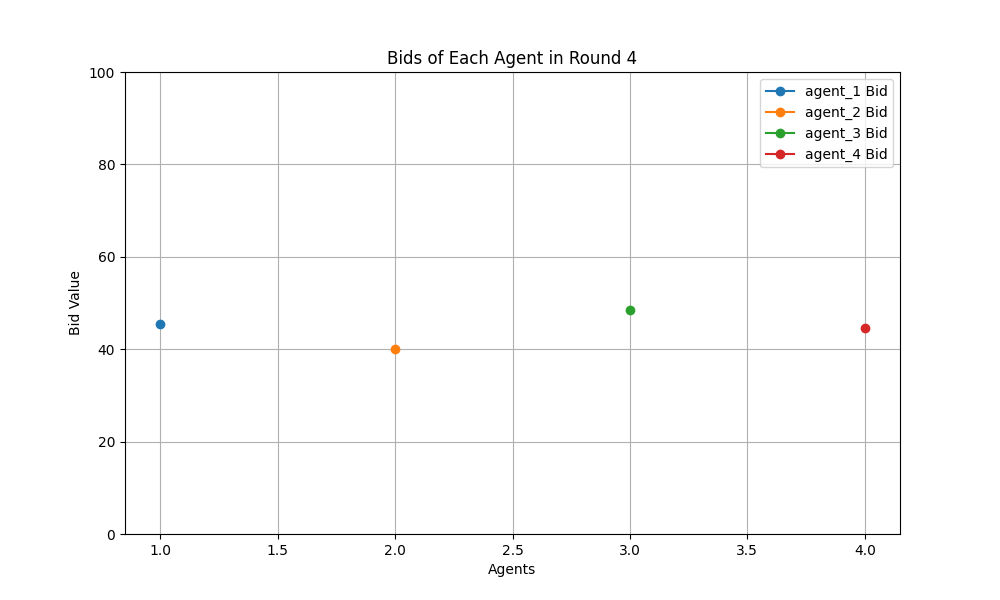
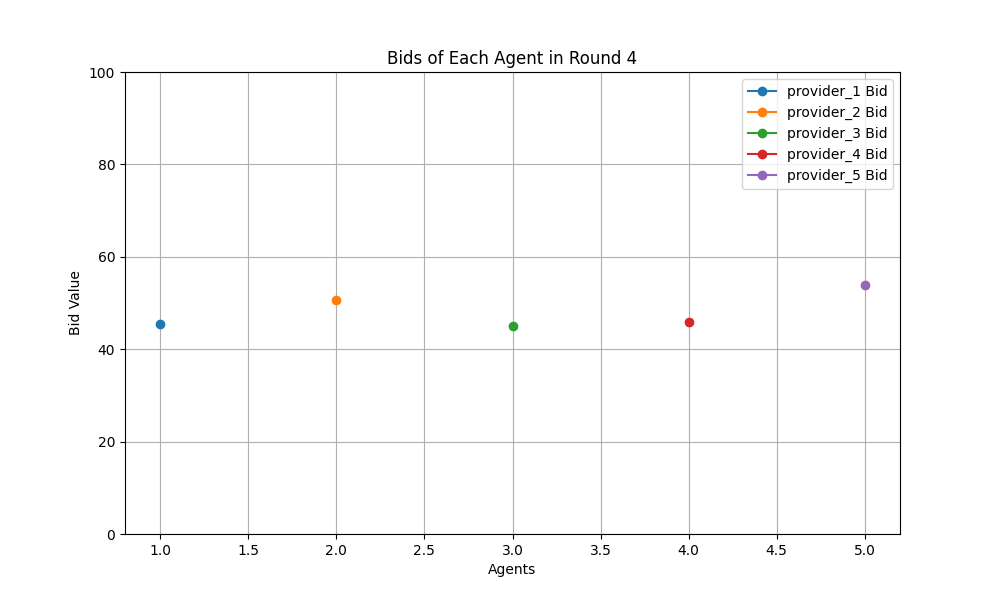
Changed agents to providers

diff --git a/spm/render/render.py b/spm/render/render.py
@@ -59,7 +59,7 @@ def create_video_from_pngs(images_folder):
 ####### WRITE THE WINNER OF EACH ROUND INSIDE THE winner_agents.json #######
 def store_round_winner(round_number, bid, agent):
 
-    winner_agent = {"round": round_number, "agent": f"agent_{agent+1}", "bid": bid}
+    winner_agent = {"round": round_number, "agent": f"provider_{agent+1}", "bid": bid}
     winner_file = "outputs/winner_agents.json"
     
     if round_number == 1:
